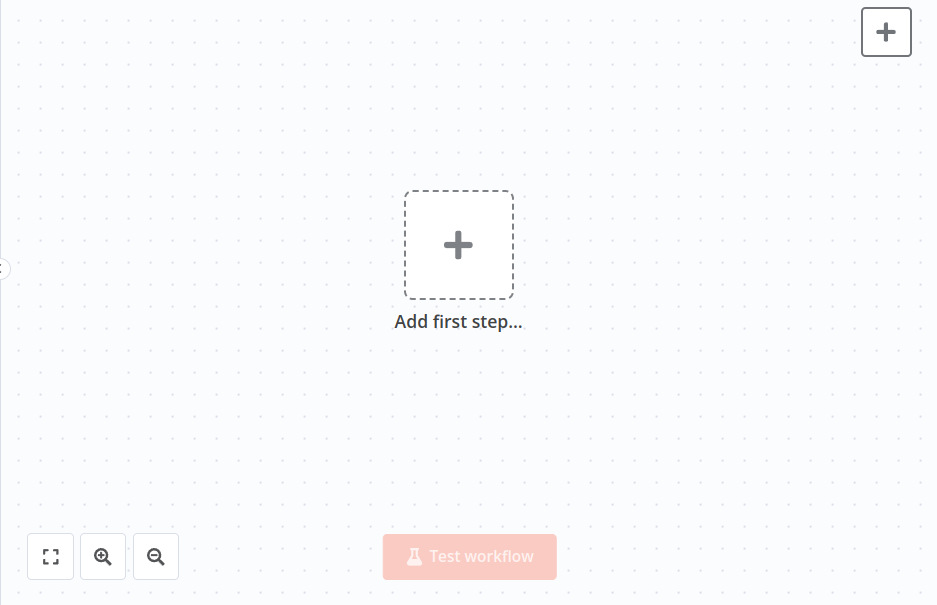
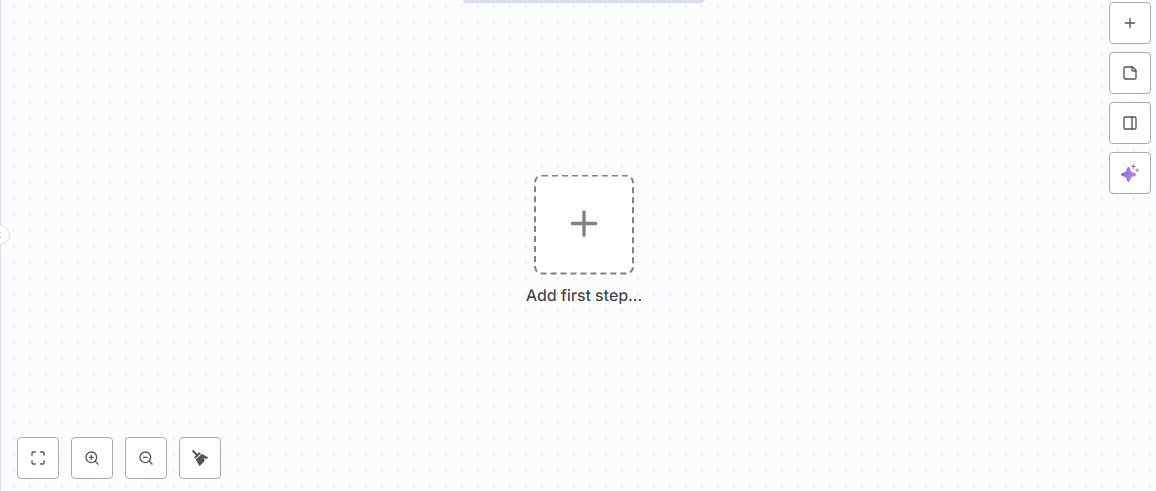
docs: update canvas buttons, executions, and projects wording (#3514)

diff --git a/docs/courses/level-one/chapter-1.md b/docs/courses/level-one/chapter-1.md
@@ -42,6 +42,9 @@ On the left side of the **Editor UI**, there is a panel which contains the core 
 The panel contains the following sections:
 
 - **Overview**: Contains all the workflows and credentials you have access to. During this course, create new workflows here.
+
+- **Projects**:  Projects group workflows and credentials. You can assign [roles](/user-management/rbac/role-types.md) to users in a project to control what they can do in a project. A **Personal** project is available by default. Projects aren't available on the Community edition.
+- **Admin Panel**: n8n Cloud only. Access your n8n instance usage, billing, and version settings.
 - **Templates**: A collection of pre-made workflows. Great place to get started with common use cases.
 - **Variables**: Used to store and access fixed data across your workflows. This feature is available on the Pro and Enterprise Plans.
 - **Insights**: Provides analytics and insights about your workflows. 
@@ -67,10 +70,11 @@ The top bar of the **Editor UI** contains the following information:
 
 The **canvas** is the gray dotted grid background in the Editor UI. It displays several icons and a node with different functionalities:
 
-- Buttons to zoom the canvas to fit the screen, zoom in or out of the canvas, and tidy up the nodes on screen.
+- Buttons to zoom the canvas to fit the screen, zoom in or out of the canvas, reset zoom, and tidy up the nodes on screen.
 - A button to **Execute workflow** once you add your first node. When you click on it, n8n executes all nodes on the canvas in sequence.
 - A button with a **+** sign inside. This button opens the nodes panel.
 - A button with a note icon inside. This button adds a [sticky note](/workflows/components/sticky-notes.md) to the canvas (visible when hovering on the top right + icon).
+- A button labeled **Ask Assistant** appears on the right side of the canvas. You can ask the AI Assistant for help with building workflows.
 - A dotted square with the text "Add first step." This is where you add your first node.
 
 <figure><img src="/_images/courses/level-one/chapter-one/l1-c1-canvas.png" alt="Workflow canvas" style="width:100%"><figcaption align = "center"><i>Workflow canvas</i></figcaption></figure>
